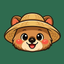
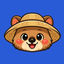
feat(design): 강조색을 코발트로 옮기고 산호를 주목색으로 더한다
화면이 칙칙하고 무난하다는 지적을 파고들었더니 취향 문제가 아니라 규칙의 결과였다.
§1.1이 "채도를 낮춘다"와 "강조색은 초록 하나"를 못박고 있었고, 그러면 화면마다 색으로
만들 수 있는 위계가 없어 전부 같은 무게로 읽힌다.

강조색을 둘로 나눈다. accent(코발트 #2a5bd7)는 이동·주 동작, signal(산호 #ff5a3c)은
지금 주목할 것이다. 둘을 같은 크기로 나란히 놓지 않는다 — 산호가 코발트만큼 화면을
먹으면 위계가 아니라 소음이 된다.

초록을 UI에서 뺐다. 지도가 초록·올리브를 독점하게 하기 위해서다. 예전에는 강조색도
초록(#2f6b4f)이라 화면에서 지도와 버튼이 서로를 눌렀다. 지도가 이 서비스에서 가장
잘 만들어진 자산인데 그걸 UI가 가리고 있었다.

색을 고르며 걸린 제약 셋을 값에 반영했다:

- 산호 위에는 흰 글자를 얹을 수 없다(3.1:1). 산호는 면이고 그 위 글자는 ink다(5.7:1).
  흰 글자가 필요한 자리는 코발트가 맡는다(5.9:1). 산호를 작은 글자 색으로 쓰는 것도
  안 된다 — 흰 바탕 위 3.1:1이다.
- muted를 #5f6880으로 잡았다. 처음 고른 #6b7492는 새 paper 위에서 4.28:1이라 AA에
  미달했다.
- danger를 #9f1239로 옮겼다. 예전 값(#a8443a)은 산호와 색상이 9도밖에 차이 나지 않아
  "주목"과 "오류"가 같은 색으로 보였다. 지금은 31도 벌어졌고 명도도 한참 낮다.

바탕은 차갑게 틴트한 흰색이다. 코발트와 색온도가 같아 강조색이 바탕에서 뜨지 않는다.
누런 미색으로는 가지 않는다 — 그건 메뉴판 갈래(§8)의 것이다.

CSS 변수를 읽지 못해 값을 복사해 둔 자리를 함께 고쳤다: opengraph-image(satori),
layout의 themeColor, manifest의 background_color·theme_color, 그리고 파비콘 마크의
배경을 칠하는 build-icon-assets.mjs. 아이콘도 다시 생성했다.

보딩패스·극장 배치·메뉴판·지도 팔레트는 건드리지 않았다. 전부 적용 범위가 못박힌
예외라 이 변경과 무관하다.

diff --git a/app/globals.css b/app/globals.css
@@ -8,25 +8,33 @@
 
 /* 토큰의 원본은 DESIGN_SYSTEM.md §1. 값을 바꾸려면 그 문서를 먼저 고친다. */
 @theme {
-  --color-ink: #1a1d1a;
-  --color-muted: #6a6f6a;
+  --color-ink: #0f1633;
+  --color-muted: #5f6880;
   /*
-   * 바탕은 중성 스톤이다. 누런 미색이 아니다 — 채도 높은 강조색을 누런 바탕에
-   * 얹으면 촌스러워진다. 이 조합으로 되돌리지 않는다. (DESIGN_SYSTEM §1.1)
+   * 바탕은 차갑게 틴트한 흰색이다. 코발트와 색온도가 같아 강조색이 바탕에서 뜨지 않는다.
+   * 누런 미색으로 가지 않는다 — 그건 메뉴판 갈래의 것이다. (DESIGN_SYSTEM §1.1·§8)
    */
-  --color-paper: #f1f1ef;
+  --color-paper: #f5f6fa;
   --color-surface: #ffffff;
-  --color-line: #dedfdb;
+  --color-line: #e3e6f0;
 
-  /* 강조색은 숲 초록 하나뿐이다. 색을 늘리고 싶으면 명도·여백으로 먼저 풀어 본다. */
-  --color-accent: #2f6b4f;
-  --color-accent-soft: #e4ede8;
+  /*
+   * 강조색이 둘인 것은 의도다. 하나(초록)만 쓰던 때는 화면마다 색으로 만들 위계가
+   * 없어 전부 같은 무게로 읽혔다. accent는 이동·주 동작, signal은 주목이다.
+   *
+   * signal 위에 흰 글자를 얹지 않는다 — 3.1:1로 미달이다. 면으로 쓰고 글자는 ink다(5.7:1).
+   * 흰 글자가 필요하면 accent를 쓴다(5.9:1). (DESIGN_SYSTEM §1.1)
+   */
+  --color-accent: #2a5bd7;
+  --color-accent-soft: #e4ebfd;
+  --color-signal: #ff5a3c;
 
   /*
    * 기능색. 강조색이 아니라 상태를 알리는 용도로만 쓴다.
-   * 채도를 낮췄다 — 채도 63%짜리 빨강은 채도 39%짜리 초록 옆에서 혼자 튄다.
+   * 예전 값(#a8443a)은 signal과 색상이 9도밖에 차이 나지 않아 "주목"과 "오류"가 같은
+   * 색으로 보였다. 31도 벌리고 명도도 낮춰 둘이 확실히 갈리게 했다.
    */
-  --color-danger: #a8443a;
+  --color-danger: #9f1239;
 
   /*
    * 극장 배치 전용. 사진 위 스크림 안에서만 쓴다. (DESIGN_SYSTEM §3)
@@ -54,8 +62,9 @@
   --color-terrain-mid: #cfd9b6;
   --color-terrain-high: #a8b98d;
   /*
-   * 명중 지역. 강조색(#2f6b4f)을 그대로 쓰면 지형의 올리브(#a8b98d)와 겹쳐
-   * 어디가 맞았는지 안 보인다. 지도 안에서만 한 단계 밝은 초록을 쓴다.
+   * 명중 지역. 지형의 올리브(#a8b98d)와 구분되도록 한 단계 밝은 초록을 쓴다.
+   * 초록은 이제 지도의 것이다 — UI 강조색이 코발트로 옮겨가면서(§1.1) 화면에서
+   * 초록을 쓰는 곳이 지도뿐이라 지형이 또렷하게 읽힌다. 이 색을 지도 밖으로 내보내지 않는다.
    */
   --color-map-hit: #4ea87a;
 

diff --git a/app/opengraph-image.tsx b/app/opengraph-image.tsx
@@ -13,10 +13,10 @@ export const alt = `${SITE_NAME} — ${SITE_TAGLINE}`
 export const size = { width: 1200, height: 630 }
 export const contentType = 'image/png'
 
-const INK = '#1a1d1a'
-const PAPER = '#f1f1ef'
-const ACCENT = '#2f6b4f'
-const MUTED = '#6a6f6a'
+const INK = '#0f1633'
+const PAPER = '#f5f6fa'
+const ACCENT = '#2a5bd7'
+const MUTED = '#5f6880'
 
 const FEATURES = '여행지 뽑기 · 여행방 · 엔빵 정산 · 성향 분석'
 const KOREAN_TEXT = `${SITE_NAME}${SITE_TAGLINE}${FEATURES}`

diff --git a/app/layout.tsx b/app/layout.tsx
@@ -94,7 +94,7 @@ export const viewport: Viewport = {
   // globals.css @theme의 --color-paper와 같은 값. 모바일 브라우저가 주소창을
   // 이 색으로 칠하므로 어긋나면 화면 위쪽에 경계선이 생긴다.
   // 여기도 CSS 변수를 못 써서 값을 복사해 둔다 — 토큰이 바뀌면 같이 바꾼다.
-  themeColor: '#f1f1ef',
+  themeColor: '#f5f6fa',
   colorScheme: 'light',
 }
 

diff --git a/app/manifest.ts b/app/manifest.ts
@@ -19,8 +19,8 @@ export default function manifest(): MetadataRoute.Manifest {
     scope: '/',
     display: 'standalone',
     orientation: 'portrait',
-    background_color: '#f1f1ef',
-    theme_color: '#f1f1ef',
+    background_color: '#f5f6fa',
+    theme_color: '#f5f6fa',
     categories: ['travel', 'lifestyle'],
     icons: [
       { src: '/icons/icon-192.png', sizes: '192x192', type: 'image/png' },
